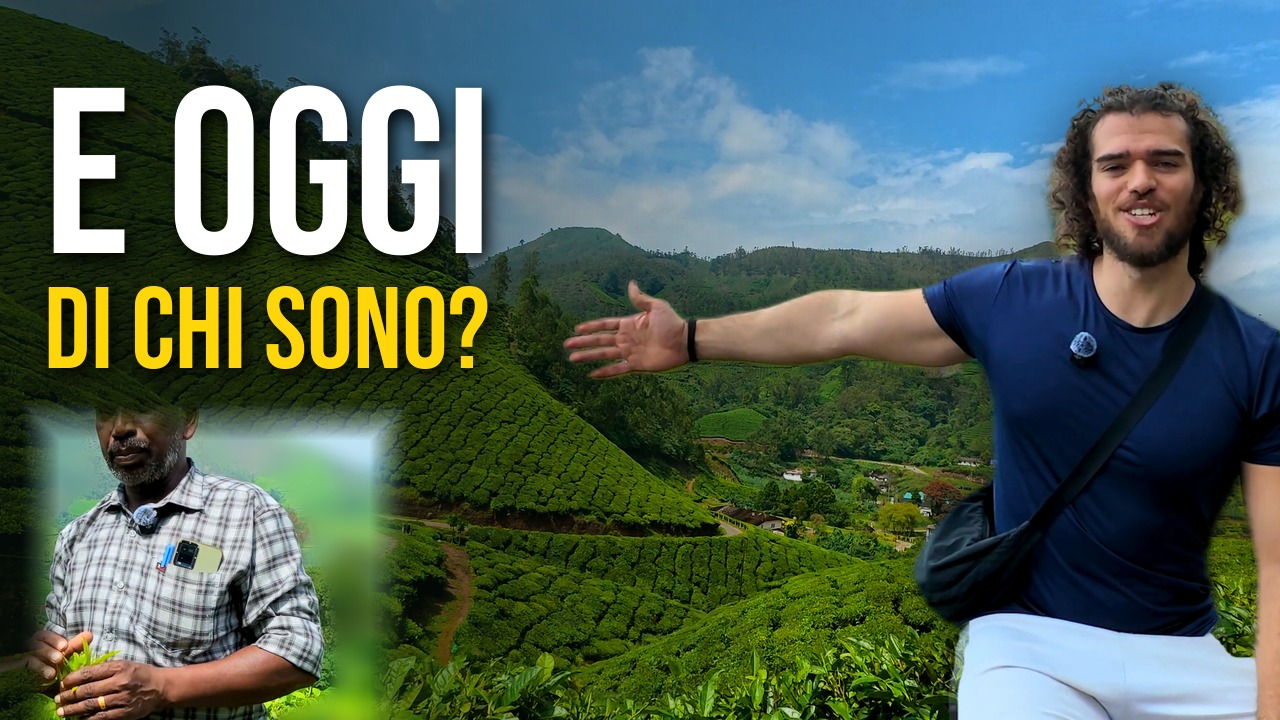
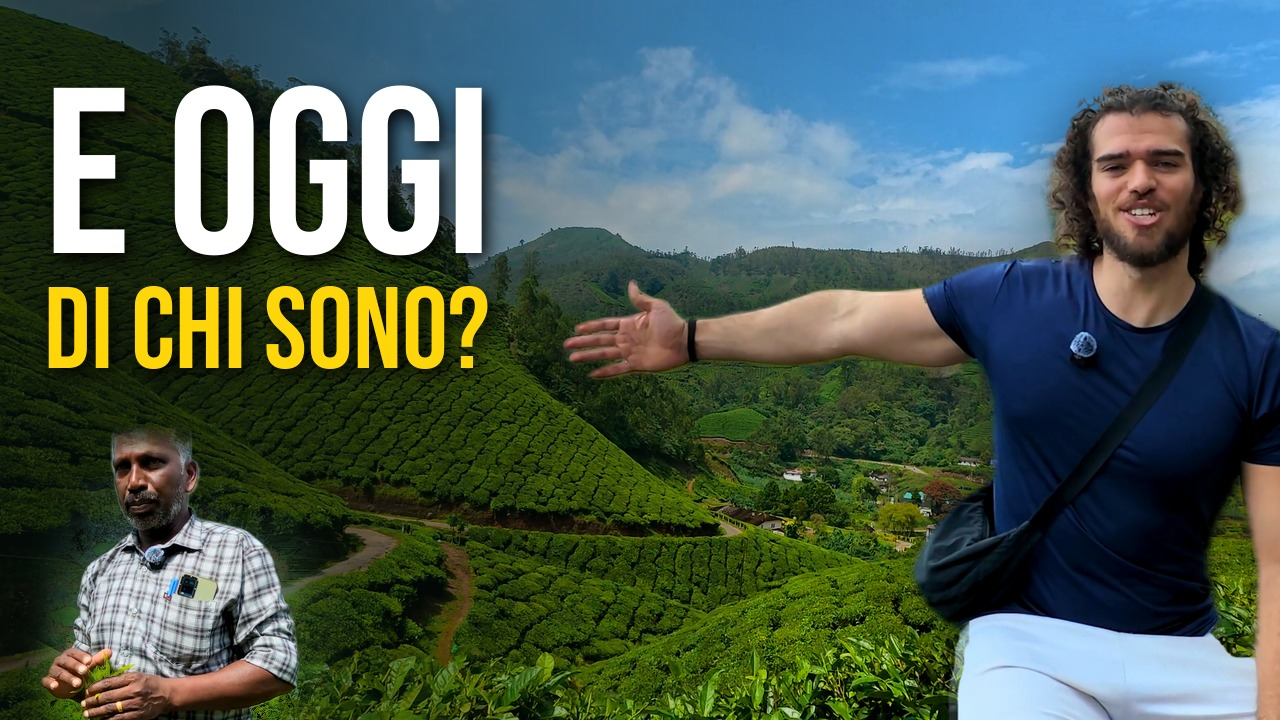
Copy: te, miniatura con Sadish che entra nel panorama
Claude-Session: https://claude.ai/code/session_01Htfbh2yWc665ptbLq1HQGA

Changed region(s): [[0.0, 0.55, 0.3125, 1.0]]

diff --git a/copioni/te_miniature/thumb_te.py b/copioni/te_miniature/thumb_te.py
@@ -42,19 +42,23 @@ def comp(out,bgframe,cx,person,h,px,dark=0.75,mirror=False,target=600,sadish=Non
     m=cut(person,h,mirror); pos=(px,H-m.height)
     al=Image.new('L',base.size,0); al.paste(m.getchannel('A'),pos); s_=Image.new('RGBA',base.size,(0,0,0,0))
     s_.putalpha(al.filter(ImageFilter.GaussianBlur(30)).point(lambda v:int(v*0.5))); base.alpha_composite(s_); base.alpha_composite(m,pos)
-    if sadish:   # Sadish mentre raccoglie (fotogramma 119.2 del lungo), in basso a sinistra, bordi sfumati, niente cornice
-        w_,box,sx,top=sadish; src=Image.open(F+'q_119.2.png').convert('RGB'); msk=Image.open(F+'cut_q.png').getchannel('A').filter(ImageFilter.MaxFilter(61)).filter(ImageFilter.GaussianBlur(14))
-        src=Image.composite(src,src.filter(ImageFilter.GaussianBlur(28)),msk)   # lui nitido, panorama sfumato
-        ph=grade(src.crop(box),1.1,1.15,1.05)
-        ph=ph.resize((w_,int(ph.height*w_/ph.width)),Image.LANCZOS)
-        yy,xx=np.mgrid[0:ph.height,0:ph.width].astype(np.float32); f=40.0
-        m=np.minimum.reduce([xx/f,(ph.width-1-xx)/f,yy/f,np.full_like(xx,9)]).clip(0,1)   # in basso esce dal bordo
-        ph=ph.convert('RGBA'); ph.putalpha(Image.fromarray((m**1.3*255).astype('uint8')))
+    if sadish:   # Sadish mentre raccoglie (fotogramma 119.2 del lungo), in basso a sinistra: niente riquadro,
+                 # il suo sfondo (cespugli) svanisce piano nel panorama della miniatura
+        w_,box,sx,top=sadish
+        src=grade(Image.open(F+'q_119.2.png').convert('RGB'),1.1,1.15,1.05).crop(box)
+        msk=Image.open(F+'cut_q.png').getchannel('A').crop(box)
+        k=w_/src.width; src=src.resize((w_,int(src.height*k)),Image.LANCZOS); msk=msk.resize(src.size,Image.LANCZOS)
+        soft=msk.filter(ImageFilter.MaxFilter(15)).filter(ImageFilter.GaussianBlur(28))      # alone morbido di cespugli
+        L_=np.asarray(src,np.float32).mean(2)/255.; sky_=np.clip((L_-0.45)/0.2,0,1)      # niente cielo intorno alla testa
+        al_=np.maximum(np.asarray(msk,np.float32),np.asarray(soft,np.float32)*0.9*(1-sky_))
+        yy,xx=np.mgrid[0:al_.shape[0],0:al_.shape[1]].astype(np.float32); f=30.0      # niente bordi netti del ritaglio
+        al_*=np.minimum.reduce([xx/f,(al_.shape[1]-1-xx)/f,yy/f,np.full_like(xx,9)]).clip(0,1)
+        ph=src.convert('RGBA'); ph.putalpha(Image.fromarray(al_.clip(0,255).astype('uint8')))
         base.alpha_composite(ph,(sx,top))
     text(base,[("E OGGI",WHITE,8),("DI CHI SONO?",YEL,0)],44,40 if sadish else 50,target)
     base.convert('RGB').save(out,quality=92)
 comp('copioni/te_miniature/A1_indica.jpg','f_27.png',0.5,'clean_1.5.png',640,560,mirror=True)
-comp('copioni/te_miniature/A1_sadish.jpg','f_27.png',0.5,'clean_1.5.png',640,560,mirror=True,target=450,sadish=(390,(1580,260,2830,1490),20,400))
+comp('copioni/te_miniature/A1_sadish.jpg','f_27.png',0.5,'clean_1.5.png',640,560,mirror=True,target=450,sadish=(380,(1450,120,2950,1490),20,425))
 comp('copioni/te_miniature/A2_braccia.jpg','f_27.png',0.5,'clean_25.png',660,590,target=520)
 ims=[Image.open(f'copioni/te_miniature/{n}.jpg').resize((640,360)) for n in ('A1_indica','A1_sadish')]
 G=Image.new('RGB',(1300,380),(20,20,20))
